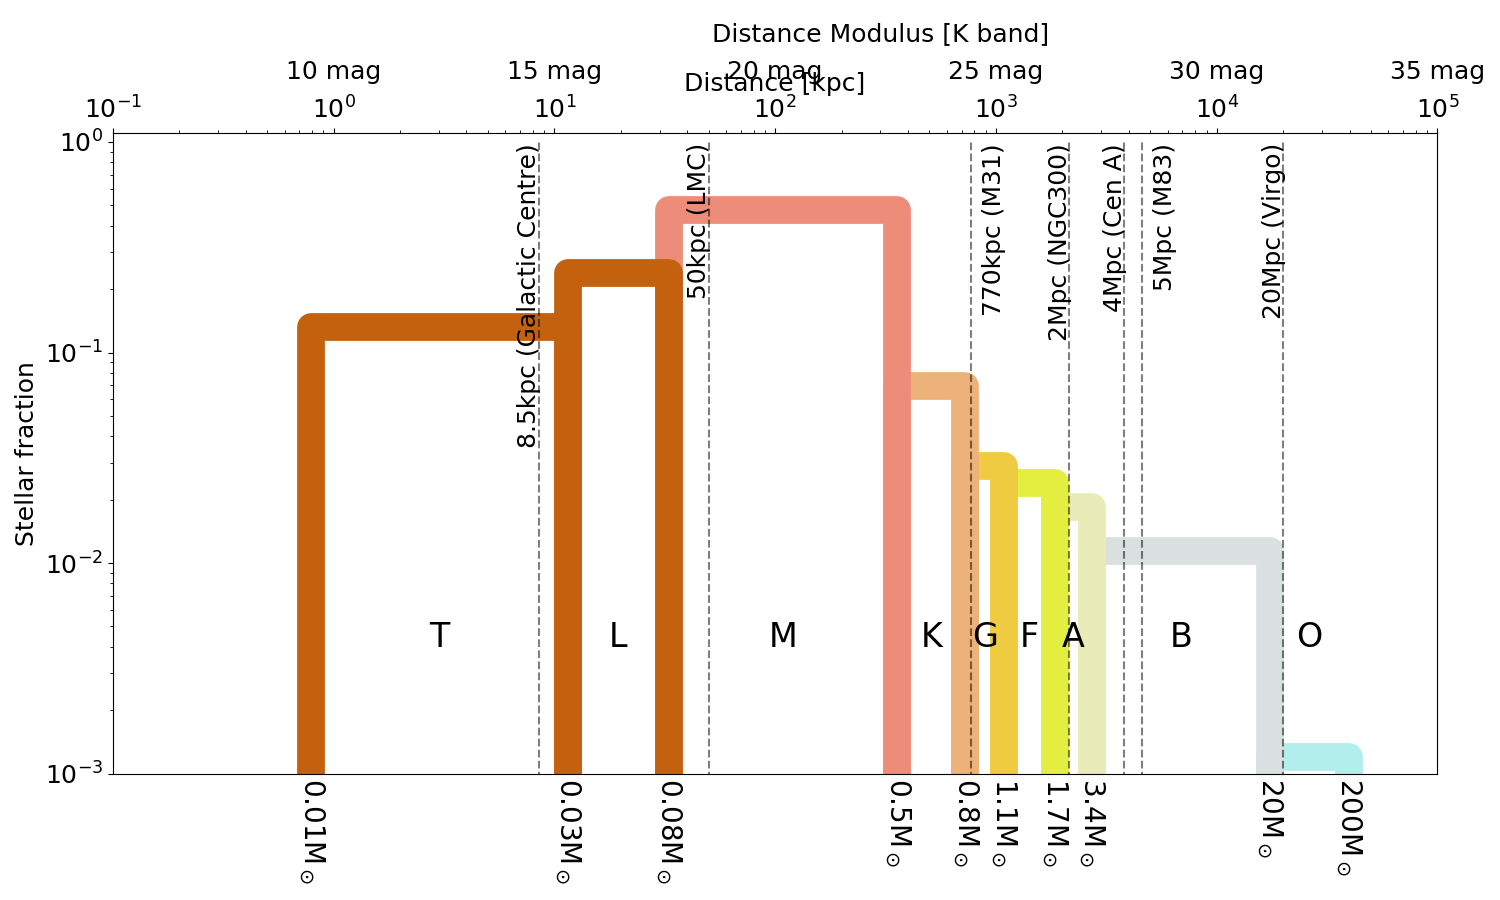
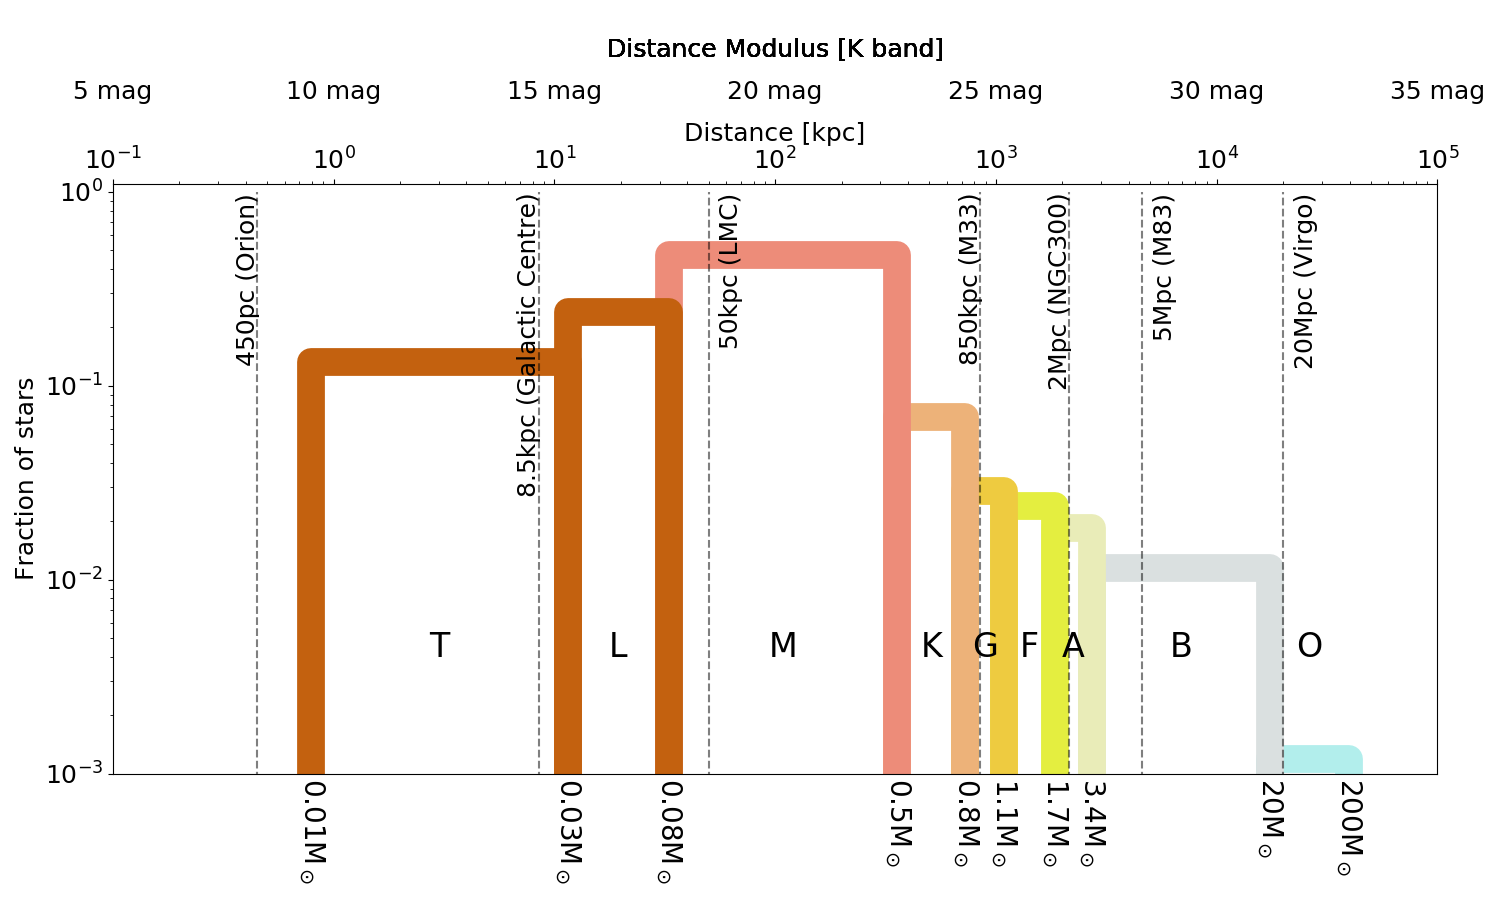
educational plot is good to go

diff --git a/imf_elt_project/imf_per_spectral_type/make_plot.py b/imf_elt_project/imf_per_spectral_type/make_plot.py
@@ -5,17 +5,16 @@ import numpy as np
 import matplotlib.pyplot as plt
 from imf_elt_project.simcado_sandbox import imf
 
-# from agpy.imf import make_cluster
-
 
 def mu_to_d(mu):
     return 10**((mu+5)/5)
+
+
 def d_to_mu(d):
     return 5*np.log10(d)-5
 
 
-# imf = make_cluster(3000000)
-
+sensitivity_limit = 28
 
 lims = [[0.01, 0.08], [0.08, 0.5], [0.5, 300]]
 alphas = [0.3, 1.3, 2.3]
@@ -28,25 +27,26 @@ masses = imf.imf_population(mass=mass * 8 / 5, lims=lims,
 
 
 # Colours for spectral types
-clr = ["#B2EEEC", "#DAE0E0", "#E9ECB8", "#E4EE40", "#EECB40", "#EDB279",
-       "#ED8C79", "#C3610F", "#C3610F"]
+clr = ["#B2EEEC", "#DAE0E0", "#E9ECB8", "#E4EE40", "#EECB40", "#EDB279", "#ED8C79", "#C3610F", "#C3610F"]
 #          O          B        A         F         G         K         M        L          T
 
 # Distance of well known objects in kpc
-obj = ["130pc (Pleiades)", "450pc (Orion)", "8.5kpc (Galactic Centre)",
-       "50kpc (LMC)",
-       "770kpc (M31)", "2Mpc (NGC300)", "4Mpc (Cen A)", "5Mpc (M83)",
-       "20Mpc (Virgo)"]
-dist = [0.13, 0.45, 8.5, 50, 770, 2150, 3815, 4610, 20000]
+# obj = ["130pc (Pleiades)", "450pc (Orion)", "8.5kpc (Galactic Centre)",
+#        "50kpc (LMC)", "770kpc (M31)", "2Mpc (NGC300)", "4Mpc (Cen A)",
+#        "5Mpc (M83)", "20Mpc (Virgo)"]
+obj = ["450pc (Orion)", "8.5kpc (Galactic Centre)", "50kpc (LMC)",
+       "850kpc (M33)", "2Mpc (NGC300)", "5Mpc (M83)", "20Mpc (Virgo)"]
+dist = [0.45, 8.5, 50, 850, 2150, 4610, 20000]
+text_dist = np.array([0.8, 0.8, 1.12, 0.80, 0.80, 1.12, 1.12])
 mu = d_to_mu(dist)
 
 # Generate the IMF boxes
 types = ["O", "B", "A", "F", "G", "K", "M", "L", "T"]
 mass = [200, 20, 3.4, 1.7, 1.1, 0.8, 0.5, 0.08, 0.03, 0.01]
 Mk = [-5.0, -3.2, 0.82, 1.66, 2.81, 3.69, 5.23, 10.41, 12.7, 18.5]
-num = np.array([np.sum((masses < mass[i]) * (masses > mass[i + 1])) for i in
-                range(len(mass) - 1)])
-dm = 28 - np.array(Mk)
+num = np.array([np.sum((masses < mass[i]) * (masses > mass[i + 1]))
+                for i in range(len(mass) - 1)])
+dm = sensitivity_limit - np.array(Mk)
 d_stars = mu_to_d(dm) / 1E3
 
 num = num.astype(float) / np.sum(num)
@@ -59,38 +59,42 @@ for i in range(len(Mk) - 1):
     plt.plot(x, y, c=clr[i], linewidth=20)
 
 # Text in graph for stellar type
-text_dist = mu_to_d(0.5 * (dm[:-1] + dm[1:])) / 1E3
-for i in range(len(types)): plt.text(text_dist[i], 4E-3, types[i],
-                                     fontsize=24, rotation=0,
-                                     horizontalalignment="center")
+text_dist_st = mu_to_d(0.5 * (dm[:-1] + dm[1:])) / 1E3
+for i in range(len(types)):
+    plt.text(text_dist_st[i], 4E-3, types[i], fontsize=24, rotation=0,
+             horizontalalignment="center")
 
 # Mass and M_K above the graph
 # for i in range(len(types)): plt.text(d_stars[i], 2, str(Mk[i])  ,fontsize=18, rotation=0, horizontalalignment="center")
-for i in range(len(mass)): plt.text(d_stars[i], 0.95E-3,
-                                    str(mass[i]) + "M$_\odot$",
-                                    fontsize=20, rotation=-90,
-                                    verticalalignment="top",
-                                    horizontalalignment="center")
+for i in range(len(mass)):
+    plt.text(d_stars[i], 0.95E-3, str(mass[i]) + "M$_\odot$", fontsize=20,
+             rotation=-90, verticalalignment="top", horizontalalignment="center")
 
 plt.loglog()
 plt.xlim(1E-1, 1E5)
 plt.ylim(1E-3, 1.1)
+
+# from matplotlib.ticker import ScalarFormatter
+# plt.gca().xaxis.set_major_formatter(ScalarFormatter())
+# plt.gca().yaxis.set_major_formatter(ScalarFormatter())
+# plt.ticklabel_format(style="plain", axis="both")
+
 plt.xlabel("Distance [kpc]", fontsize=18)
-plt.ylabel("Stellar fraction", fontsize=18)
+plt.ylabel("Fraction of stars", fontsize=18)
 plt.tick_params(axis='both', which='major', labelsize=18)
 plt.gca().xaxis.set_ticks_position('top')
 plt.gca().xaxis.set_label_position('top')
 
-for i in np.arange(0, 6): plt.text(10 ** i, 2, str(5 * (i + 2)) + " mag",
-                                   horizontalalignment="center", fontsize=18)
-plt.text(300, 3, "Distance Modulus [K band]", horizontalalignment="center",
-         fontsize=18)
+for i in range(-1, 6):
+    plt.text(10 ** i, 3, f"{5 * (i + 2)} mag",
+             horizontalalignment="center", fontsize=18)
+    plt.text(100, 5, "Distance Modulus [K band]",
+             horizontalalignment="center", fontsize=18)
 
 # Well known objects - vertical dashed line and dot point
-text_dist = np.array([0.8] * (len(obj) - 5) + [1.12, 0.80, 0.80, 1.12, 0.80])
-for j in range(2, len(dist)):
+for j in range(len(dist)):
     plt.plot((dist[j], dist[j]), (1E-5, 1), "k--", alpha=0.5)
-for j in range(2, len(obj)):
+for j in range(len(obj)):
     plt.text(text_dist[j] * dist[j], 0.99, obj[j], verticalalignment="top",
              horizontalalignment="left", fontsize=18, rotation=90)
 

diff --git a/imf_elt_project/psf_subtraction/psf_subtraction_alpha.py b/imf_elt_project/psf_subtraction/psf_subtraction_alpha.py
@@ -145,8 +145,9 @@ for dist_mod in dist_mods[:1]:  # GC=14.5, LMC=18.5, Leo I=21.5, M31=24.5
 
             tbl_stats = hstack([tbl_stats, tbl_hist])
 
-            fname = dname + "tbl_stats_dist=" + str(dist) + "_rho=" + str(
-                star_density) + ".dat"
+            fname = dname + "tbl_stats_dist={}_rho={}.dat" \
+                            "".format(int(round(dist)),
+                                      int(round(star_density)))
             # tbl_stats.write(fname, format="ascii")
             # results.write(fname.replace("stats", "found"), format="ascii")
 
